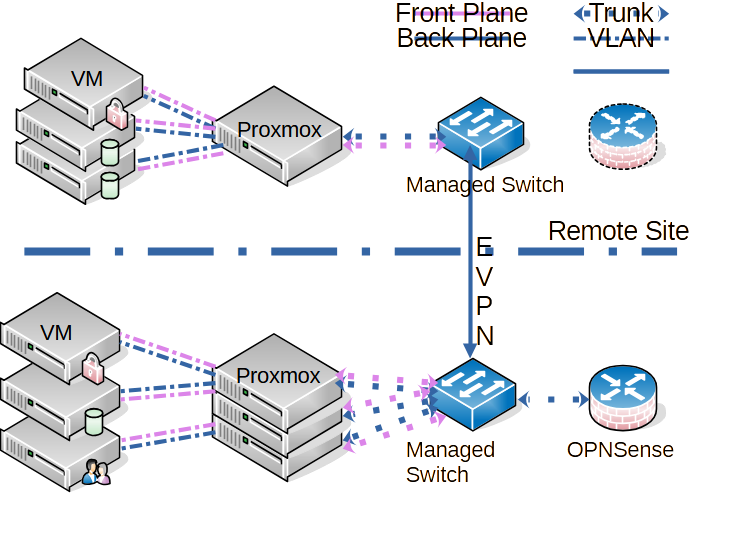
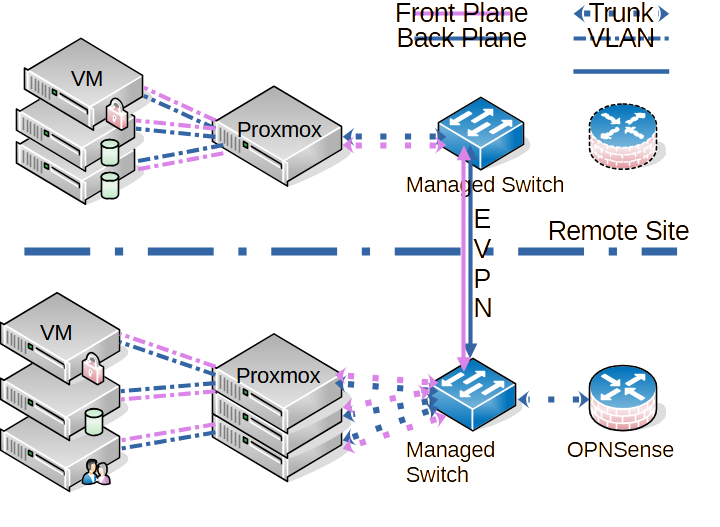
Changes to the reconfiguration  steps and fix of the to-be diagram

diff --git a/dns-setup/reconf-ddns-current-setup/README.md b/dns-setup/reconf-ddns-current-setup/README.md
@@ -65,7 +65,7 @@ Include the TSIG keys in /etc/bind/named.conf:
 include "/etc/bind/ddns-signatures";
 ```
 
-Require signed zone transfers:
+Require signed zone transfers in namde.conf.options:
 
 ```bash
 allow-transfer {
@@ -100,13 +100,13 @@ Use the exported variable $HMAC with dig and nsupdate.
 Example zone transfer:
 
 ```bash
-dig @ns1.in.hcinfotech.ch +noall +answer in.hcinfotech.ch -y $HMAC -t AXFR \
+dig @ns1.example.com +noall +answer example.com -y $HMAC -t AXFR \
 | grep -E $'[\t| ](A|CNAME|MX)[\t| ]'
 ```
 
 Explanation:
 
-- Connects to the primary nameserver for zone in.hcinfotech.ch
+- Connects to the primary nameserver for zone example.com
 - Initiates an authenticated AXFR zone transfer
 - Filters for A, CNAME, and MX records
 
@@ -121,7 +121,7 @@ Add a section indicating the primary name server after the transfer key in file 
 ```bash
 key "ddns-transfer-key" {
     algorithm hmac-sha512;
-    isecret "XXXX";
+    secret "Alongandverysecretassphrase";
 };
 server 192.168.1.20 {   # example ip of primary name server
     keys {
@@ -142,6 +142,54 @@ sudo systemctl restart named
 
 ## 6. Configure the primary nameserver for dynamic updates
 
+### 6.1 Prepare the transfer files for the zones
+
+Prepare the files for the transfer by nsupdate ahead of time. The zone resolution
+is unavaialble until nsupdate has updated the zones, after we placed the empty zone stubs
+into /var/lib/bind and restart named.
+
+The transfer files use the following format:
+
+```bash
+server 192.168.1.20          # IP address of primary name server
+zone example.com             # the zone to be transferred
+update add server1.example.com 3600 IN A 192.168.1.135
+...
+update add server50.example.com 3600 IN A 192.168.1.211
+send                         # signal nsupdate to start the transfer
+```
+
+Transfer of the reverse lookup follows the same format. Zone replaced by the
+reverse lookup zone (e.g. 1.168.192.in-addr.arpa).
+'update add' command adding the reverse lookup entries
+(e.g. 135.1.168.192.in-addr.arpa 3600 IN PTR xxx.example.com.)
+
+You could use something such as the following scripts to create these files.
+
+```bash
+echo "server 192.168.1.20" | sudo tee /etc/bind/example.com.zone.transfer
+echo "zone example.com." | sudo tee -a /etc/bind/example.com.zone.transfer
+dig @ns1.example.com +noall +answer example.com -y $HMAC -t AXFR \
+| grep -E $'[\t| ](A|CNAME|MX)[\t| ]' \
+| while read LINE; do \
+    echo "update add ${LINE}" | sudo tee -a /etc/bind/example.com.zone.transfer \
+  done
+echo "send" | sudo tee -a /etc/bind/example.com.zone.transfer
+```
+
+Similar for the transfer of the reverse lookup zone
+
+```bash
+echo "server 192.168.1.20" | sudo tee /etc/bind/192.168.1.zone.transfer
+echo "zone 1.168.192.in-addr.arpa" | sudo tee -a /etc/bind/192.168.1.zone.transfer
+dig @ns1.example.com +noall +answer 1.168.192.in-addr.arpa -y $HMAC -t AXFR \
+| grep -E $'[\t| ](PTR)[\t| ]' \
+| while read LINE; do \
+    echo "update add ${LINE}" | sudo tee -a /etc/bind/192.168.1.zone.transfer \
+  done
+echo "send" | sudo tee -a /etc/bind/192.168.1.zone.transfer
+```
+
 Update /etc/bind/named.conf.local on the primary name server and add the following section
 to any zone prepared for dynamical update:
 
@@ -160,14 +208,13 @@ Example zone entry in /etc/bind/named.conf.local:
 zone "example.com" IN {
   type primary;
   file "/var/lib/bind/example.com.zone";
-  allow-transfer {
-    192.168.0.20;    # example secondary name server
-  };
   update-policy {
     grant ddns-update-key zonesub ANY;
   };
 };
 ```
+
+### 6.2 Create the initial zone files
 
 Create the initial zone file in /var/lib/bind/. The zone file needs to contain the SOA record,
 and the NS records of the name servers. nsupdate loads everything else dynamically.
@@ -191,38 +238,44 @@ $ORIGIN example.com.
 ns1               IN      A       192.168.1.20
 ```
 
+Here increase the serial number to signal the secondary servers to re-transfer the zone.
+Create a similar zone file for the reverse lookup.
+
+### 6.3 Change the configuration in /etc/bind/named.conf.local
+
+Update /etc/bind/named.conf.local on the primary name server and add the following section
+to any zone prepared for dynamical update:
+
+```bash
+update-policy {
+ grant ddns-update-key zonesub ANY;
+};
+```
+
+AppArmor prevents named from updating files in /etc/bind. The zone file needs to be stashed in
+directory /var/lib/bind/ in order for it to be updated by named.
+
+Example zone entry in /etc/bind/named.conf.local:
+
+```bash
+zone "example.com" IN {
+  type primary;
+  file "/var/lib/bind/example.com.zone";
+  update-policy {
+    grant ddns-update-key zonesub ANY;
+  };
+};
+```
+
+Restart named
+
+```bash
+sudo systemctl restart named
+```
+
 ---
 
 ## 7. Transfer the currently existing zone to the new dynamic zone
-
-Use dig to create the transfer file, after executing set_MAC alias to create the $HMAC variable
-
-```bash
-dig @ns1.example.com +noall +answer example.com -y \$HMAC -t AXFR \
-| grep -E $'[\t| ](A|CNAME|MX)[\t| ]' > ~/example.com.zone.transfer
-```
-
-Add all the record types in your zone that need to be transferred. You can cleanup all the unwanted entries now,
-if so desired.
-
-Add "update add " in front of every line. For example in vim with:
-
-```bash
-:%s/^/update add /
-```
-
-Add the following two lines as the first two lines of the file
-
-```bash
-server ns1.example.com
-zone example.com
-```
-
-Add the following as the last line of the file:
-
-```bash
-send
-```
 
 Use nsupdate to create the new zone
 
